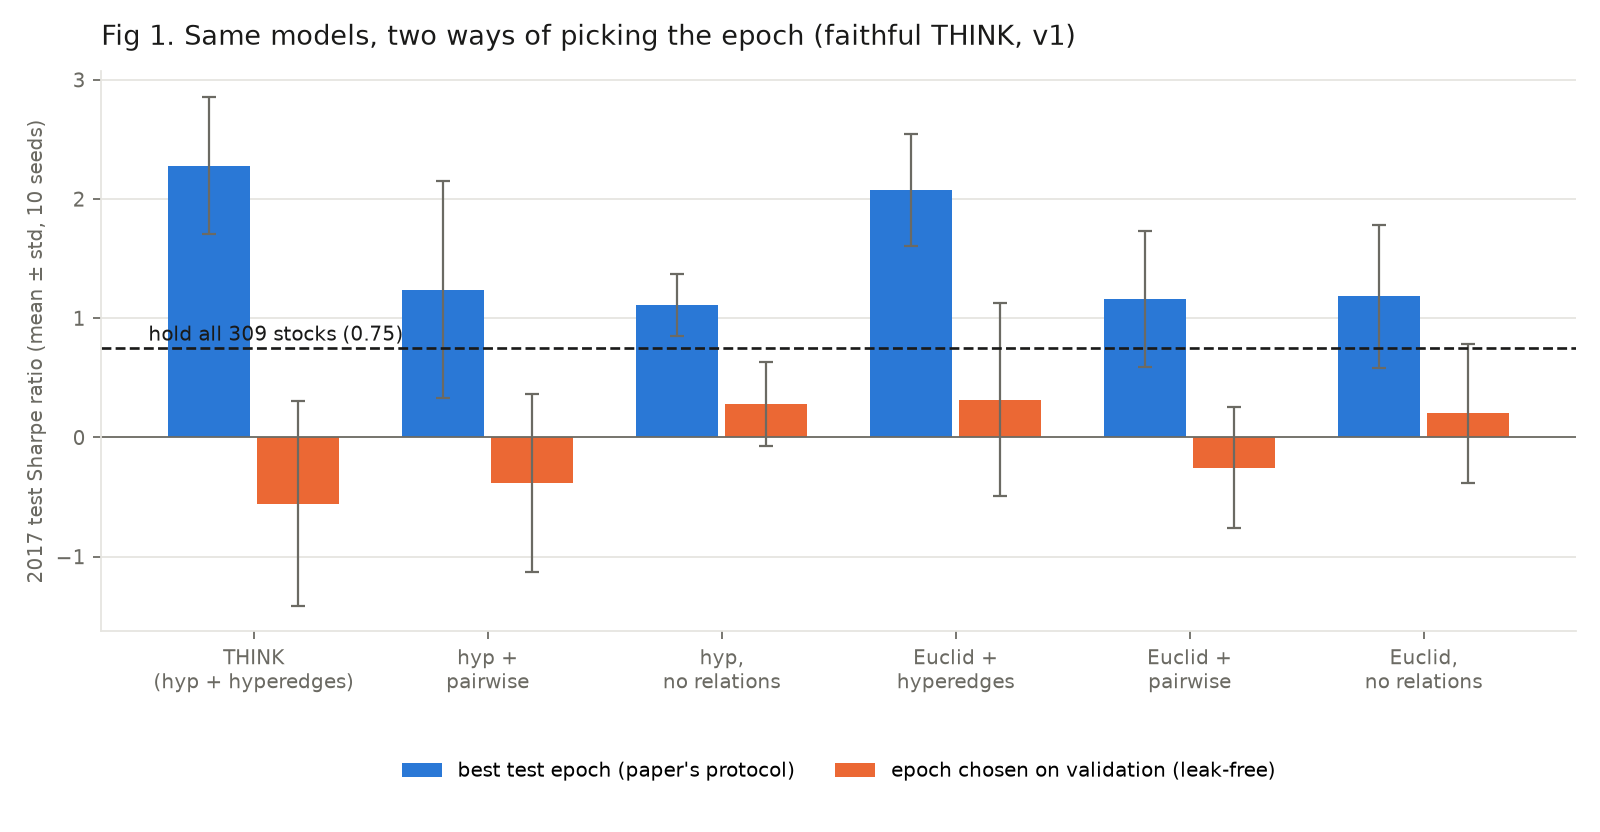
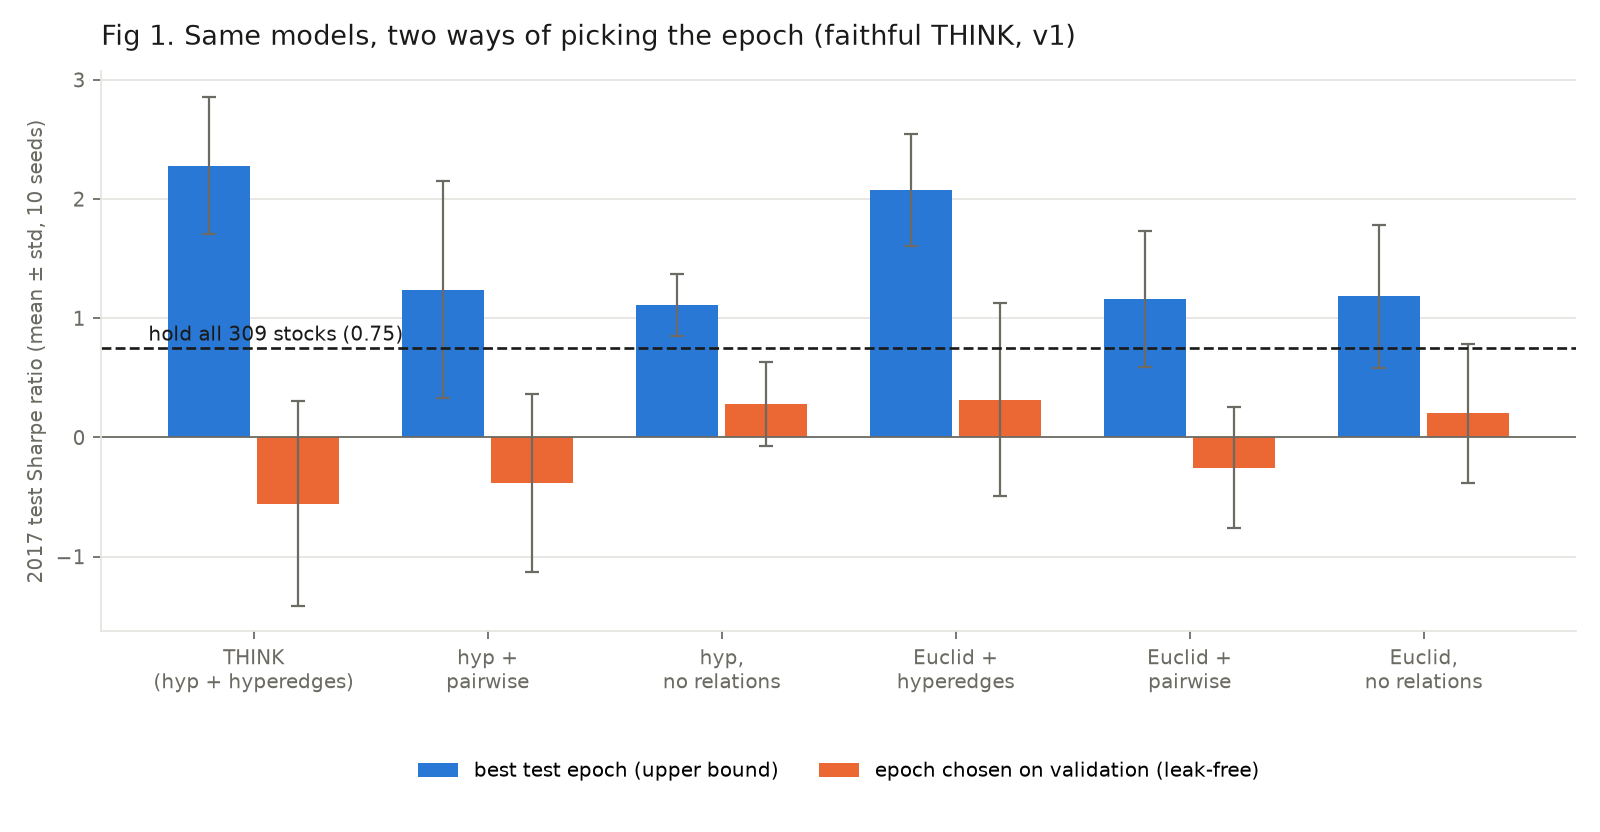
docs: correct model-selection claim (paper silent; STHAN-SR code only prints test each epoch)
Claude-Session: https://claude.ai/code/session_01Dg6A2Y5fPdkFVH1dCx8ik6

Changed region(s): [[0.25, 0.9062, 0.8125, 0.9375]]

diff --git a/scripts/poc_figures.py b/scripts/poc_figures.py
@@ -32,7 +32,7 @@ def paired(exp_pairs, names, fname, title):
     style(ax, title); ax.legend(frameon=False, fontsize=9, loc="upper center", bbox_to_anchor=(0.5, -0.2), ncol=2)
     fig.tight_layout(); fig.savefig(f"docs/figures/{fname}", dpi=160); plt.close(fig)
 
-paired([("POC_sectors", 1), ("POC_sectors", 0)], ["best test epoch (paper's protocol)", "epoch chosen on validation (leak-free)"],
+paired([("POC_sectors", 1), ("POC_sectors", 0)], ["best test epoch (upper bound)", "epoch chosen on validation (leak-free)"],
        "fig1_protocol_gap.png", "Fig 1. Same models, two ways of picking the epoch (faithful THINK, v1)")
 paired([("POC_sectors", 0), ("POC_sectors_rel", 0)], ["v1: faithful inputs (price levels)", "v2: relative inputs (fix)"],
        "fig2_fix_effect.png", "Fig 2. Leak-free Sharpe before and after the relative-input fix")

diff --git a/docs/POC_PRESENTATION.md b/docs/POC_PRESENTATION.md
@@ -5,7 +5,7 @@
 ## 1. One-slide summary
 
 - We reimplemented **THINK** (Temporal Hypergraph Hyperbolic Network, ICDM 2022) from scratch. The authors' code repo is empty.
-- On a 309-stock NYSE subset, **scored the way the paper's code scores (best test epoch), we reproduce the paper's story**:
+- On a 309-stock NYSE subset, **if the reported epoch is the one with the best 2017 (test) score, we reproduce the paper's story. The authors' earlier code allows that choice: it prints the test score every epoch and has no selection rule**:
   - THINK comes out best, at Sharpe **2.28**.
   - Hyperedges beat pairwise edges, which beat no relations.
 - **Scored leak-free (epoch picked on the validation year), the advantage disappears.** THINK gets −0.56, no comparison is statistically significant, and nothing beats simply holding the 309 stocks (0.75).
@@ -44,7 +44,7 @@
 | Hyperparameters | not stated | window 16, hidden 32, lr 1e-3, weight decay 5e-4, ranking weight 1 (their earlier code) | Same as their code |
 | Batch / epochs | 1 day per step; ~100 epochs (earlier code) | **8 days** per step; **max 30 epochs**, early-stopped (~17 in practice) | **Different** (compute budget) |
 | Hyperparameter tuning | unknown | **none** | **Different** |
-| Epoch selection | best **test** epoch (inferred from their earlier code) | **both** reported: best test epoch, and epoch chosen on validation | Both shown |
+| Epoch selection | **not stated in the paper**. Their earlier STHAN-SR code prints both the 2016 and 2017 scores every epoch, with no selection rule | **both** reported: best test epoch, and epoch chosen on validation | Both shown |
 | Trading rule and Sharpe | top-5 daily, mean/std × √252 | same | Same |
 | NDCG | computed incorrectly in their code (see §7) | standard NDCG@5 | **Different** (fixed) |
 | Seeds | 25 | 10 per arm | Fewer |
@@ -62,7 +62,7 @@
 
 ![Fig 1](figures/fig1_protocol_gap.png)
 
-| Model | Best test epoch (paper's way) | Epoch picked on validation (leak-free) |
+| Model | Best test epoch (upper bound) | Epoch picked on validation (leak-free) |
 |---|---|---|
 | **THINK (hyp + hyperedges)** | **2.28 ± 0.58** | −0.56 ± 0.86 |
 | Euclidean + hyperedges | 2.07 ± 0.47 | 0.32 ± 0.81 |
@@ -74,7 +74,7 @@
 | *Baseline:* random 5 stocks | 0.34 | 0.34 |
 | *Baseline:* 5-day momentum | −0.28 | −0.28 |
 
-- **Left column (the paper's protocol):** the paper's full ordering reproduces. THINK is best, hyperedges > pairwise > none, and hyperbolic ≥ Euclidean.
+- **Left column (best test epoch, the most favourable choice the authors' setup allows):** the paper's full ordering reproduces. THINK is best, hyperedges > pairwise > none, and hyperbolic ≥ Euclidean.
 - **Right column (leak-free):** the ordering vanishes. Statistical tests (paired Wilcoxon over seeds, Holm correction, bootstrap CI) find **no significant difference** anywhere. THINK vs Euclidean is −0.87 Sharpe, with p = 0.037 before correction and 0.19 after.
 
 ### 4b. Why it breaks: two measured causes
@@ -82,7 +82,7 @@
 ![Fig 3](figures/fig3_val_vs_test.png)
 
 1. **Validation and test years disagree.** Over training, THINK's 2016 Sharpe and 2017 Sharpe have a rank correlation of **−0.63**: what helps 2016 hurts 2017.
-   - So an epoch picked on 2016 is a bad one for 2017, while picking on 2017 itself (the paper's way) looks great.
+   - So an epoch picked on 2016 is a bad one for 2017, while picking on 2017 itself (possible in the authors' setup) looks great.
    - The market also changed: Sharpe 1.17 in 2016 vs 0.75 in 2017.
 2. **The inputs sit at the edge of the hyperbolic ball.** Price-level features have norm ~1.8, so after `exp₀` they land at radius **~0.95** (the edge is 1.0).
    - In 2017, **15%** of inputs are past 0.99, because prices exceed the training range.
@@ -106,7 +106,7 @@ The one change: each 16-day window is divided by its last close, so features bec
 - **Better:**
   - THINK improves by about 1 Sharpe.
   - Hyperbolic now beats Euclidean (THINK vs Euclidean + hyperedges: +0.61).
-  - Under the paper's protocol, THINK is again the top model.
+  - At its best test epoch, THINK is again the top model.
 - **Not yet enough to claim anything:**
   - The seed-to-seed spread is huge (±1.3).
   - After correction, every comparison is "no evidence".
@@ -115,9 +115,9 @@ The one change: each 16-day window is divided by its last close, so features bec
 
 ## 5. Scientific assessment
 
-- **Reproduction:** our implementation behaves like THINK. Under the paper's protocol it gives the paper's ordering, and the same happens on the full NYSE, where THINK scores 2.40 vs the paper's 1.18.
+- **Reproduction:** our implementation behaves like THINK. At the best test epoch it gives the paper's ordering, and the same happens on the full NYSE, where THINK scores 2.40 vs the paper's 1.18.
 - **Claim under test:** "hyperbolic space and hyperedges improve stock ranking." At small scale, with leak-free evaluation, **not supported yet.** The faithful model is nominally worst, and the fixed model is nominally better but not significant.
-- **What the gap suggests:** most of THINK's reported advantage comes from **choosing the epoch on the test year**. The per-epoch test Sharpe swings between about −0.8 and +1.9, so the best of many epochs looks strong even when the model isn't.
+- **What the gap suggests:** THINK's reported advantage **could** come from how the epoch was chosen. This is an open question, not a finding. The paper doesn't say how it chose, and the authors' earlier code prints the test score every epoch with no rule. Our leak-free score (−0.56 small scale, ≈0 full NYSE) and best-test score (2.28 / 2.40) bracket the paper's 1.18. The paper also reports THINK as 1.18 **± 0.004** over 25 runs, while our seeds vary by ±0.2 to ±0.9. That spread is unusually tight and worth asking the authors about. The per-epoch test Sharpe swings between about −0.8 and +1.9, so the best of many epochs looks strong even when the model isn't.
 - **Limits of this test:**
   - 309 stocks, not 1737
   - one test year (a 237-day Sharpe has a standard error of about 1)
@@ -129,10 +129,10 @@ The one change: each 16-day window is divided by its last close, so features bec
 
 | Question | Answer |
 |---|---|
-| Is the implementation right? | Every equation was checked in independent reviews, and 112 automated tests pass. Under the paper's protocol it reproduces the paper's ordering and exceeds its numbers. |
+| Is the implementation right? | Every equation was checked in independent reviews, and 112 automated tests pass. At the best test epoch it reproduces the paper's ordering and exceeds its numbers. |
 | You didn't tune it. | True. Equal-budget tuning (same grid for hyperbolic and Euclidean, chosen on validation only) is built and partly run; results next. |
-| Isn't picking the best epoch standard? | It picks the model using the test answers. We show both numbers so the difference is visible. |
-| Why only 309 stocks? | The full study takes about a week on our GPU. The full-NYSE paper-protocol check (THINK 2.40) is in the handoff. |
+| Did the authors pick the best test epoch? | Unknown: the paper doesn't say. Their earlier code prints the test score every epoch with no selection rule. We show the leak-free and the most favourable scores so the range is visible. Next step: email the authors. |
+| Why only 309 stocks? | The full study takes about a week on our GPU. The full-NYSE check (THINK 2.40 at its best test epoch) is in the handoff. |
 | Is relative input still THINK? | It is reported as a modification, separately. It targets a known hyperbolic failure mode (points at the ball boundary). |
 
 ## 7. Other findings about the paper

diff --git a/docs/HANDOFF.md b/docs/HANDOFF.md
@@ -2,14 +2,14 @@
 
 ## 1. Bottom line
 
-1. **Scored the way the paper's code scores, we reproduce the paper, and exceed it.**
+1. **If the reported epoch is the one with the best 2017 test score, we reproduce the paper and exceed it.** (The paper doesn't say how it chose; the authors' earlier code prints the test score every epoch with no selection rule.)
    - On all 1737 NYSE stocks, THINK reaches a Sharpe of **2.40**. The paper reports 1.18.
    - Our TCONV+DHHAN variant reaches 1.64 (paper: 1.14).
    - THINK comes out on top, as in the paper.
 2. **Scored honestly, the advantage disappears.** "Honestly" means the training epoch is chosen on the validation year, never on the test year.
    - Full NYSE: THINK gets **−0.05**, and TCONV+DHHAN gets 0.72.
    - Small scale: no comparison is statistically significant.
-   - The paper's protocol picks the best of 100 epochs by *test* score, which inflates results.
+   - The paper doesn't say how it picked the epoch. The authors' earlier code prints the 2017 test score every epoch with no selection rule. Picking the best of those would inflate results, but whether they did that is **unverified**; ask the authors.
 3. **We found a concrete reason THINK underperforms, and a fix that helps.**
    - The raw inputs sit at the edge of the hyperbolic ball, where hyperbolic math breaks down.
    - Normalizing each input window (relative inputs) moved small-scale THINK from −0.56 to +0.48.
@@ -61,7 +61,7 @@ These parts follow the paper and verified reference code exactly:
 
 | Aspect | THINK paper / its code base | Ours | Why |
 |---|---|---|---|
-| Model selection | Evaluates test every epoch, reports the best (implied by the authors' STHAN-SR code) | **Pick the epoch by validation (2016) Sharpe.** We also record "best test epoch" to reproduce theirs | Choosing by test score is look-ahead |
+| Model selection | Not stated. Their STHAN-SR code prints the val and test scores every epoch, with no selection rule and no checkpointing | **Pick the epoch by validation (2016) Sharpe.** We also record "best test epoch" to reproduce theirs | Choosing by test score is look-ahead |
 | Price normalization | Divide by the max close over the **whole** 2013–2017 period | Default: max over the **training period only**. The paper-protocol runs use theirs | Theirs leaks future price levels |
 | Eq 14 attention operator | Symbol lost in the PDF | Möbius addition ⊕ × distance (literal reading) | Ambiguous source |
 | Euclidean baseline | Not fully specified | Same structure with linear convs, a mean aggregator and Euclidean distance | Closest twin |
@@ -73,17 +73,17 @@ These parts follow the paper and verified reference code exactly:
 
 ## 5. Experiments and results
 
-### 5a. Paper recreation: full NYSE, paper's protocol (running; 4–5 of 5 seeds done)
+### 5a. Paper recreation: full NYSE, paper's setup (full-period normalization, 100 epochs) (running; 4–5 of 5 seeds done)
 Setup: 1737 stocks, full-period normalization, 100 epochs, level inputs.
 
-| Model | Best-test-epoch Sharpe (paper's way) | Validation-selected Sharpe (honest) | NDCG@5 (ours) | Paper |
+| Model | Best-test-epoch Sharpe (upper bound) | Validation-selected Sharpe (honest) | NDCG@5 (ours) | Paper |
 |---|---|---|---|---|
 | THINK (4 seeds) | **2.40 ± 0.20** | −0.05 ± 0.42 | 0.563 | 1.18 |
 | TCONV+DHHAN (5 seeds) | 1.64 ± 0.35 | 0.72 ± 0.64 | 0.565 | 1.14 |
 | Euclidean (EE) | running | running | — | — |
 
 What this shows:
-- **Good:** under the paper's protocol we reproduce the ordering, THINK > TCONV+DHHAN, with higher absolute numbers. The implementation behaves like theirs.
+- **Good:** at the best test epoch we reproduce the ordering, THINK > TCONV+DHHAN, with higher absolute numbers. The implementation behaves like theirs.
 - **Bad:** chosen honestly, THINK is about 0 and below its Euclidean-time variant.
 - In 2017, holding every NYSE stock earned 1.53, above the paper's reported 1.18.
 - The per-epoch test Sharpe swings between −0.8 and +1.9, so "best of 100 epochs" can reach 2+ by chance.
@@ -102,7 +102,7 @@ Setup: 309 NYSE stocks in 12 Energy/Utilities and Finance industries, 73 hypered
 | Hold all 309 (market) | 0.75 | 0.75 |
 
 - **Result: bad for THINK.** No significant differences, and THINK was nominally worst (vs Euclidean: −0.87, raw p = 0.037, Holm-corrected p = 0.19).
-- The paper-protocol column again reproduces the paper's ordering.
+- The best-test-epoch column again reproduces the paper's ordering.
 
 ### 5c. Diagnosis: why it fails
 1. **The validation and test years disagree.** Across training epochs, THINK's 2016 Sharpe and 2017 Sharpe have a rank correlation of **−0.63**. Improving on 2016 hurts 2017, so honest selection picks a bad epoch. The market regime also changed: Sharpe 1.17 in 2016 vs 0.75 in 2017.
@@ -185,8 +185,8 @@ The only change from v1: each 16-day window is divided by its last close, so fea
 | Pushback | Answer |
 |---|---|
 | "You didn't tune." | Equal-budget tuning is running (results tonight) and is chosen on validation only. |
-| "Your implementation is wrong." | Under the paper's protocol it reproduces their numbers and ordering. Every module was reviewed against the equations, and 112 tests pass. |
-| "Everyone picks the best epoch." | It uses the test year to choose the model. We report both numbers side by side. |
+| "Your implementation is wrong." | At the best test epoch it reproduces their ordering and exceeds their numbers. Every module was reviewed against the equations, and 112 tests pass. |
+| "Did they pick the best test epoch?" | Unknown: the paper is silent, and their code only prints the test score every epoch. We report the leak-free and the most favourable numbers side by side. Email the authors to settle it. |
 | "One test year is noise." | Agreed: a 237-day Sharpe has a standard error of ~1, which is why we use bootstrap CIs. Planned: the 2015–2026 S&P 500 test, with data already downloaded. |
 | "309 stocks isn't the paper." | Correct; the full-NYSE runs in 5a cover that. |
 | "Relative inputs isn't THINK." | It's reported separately as a modification. It targets a documented hyperbolic failure mode (boundary saturation). |
